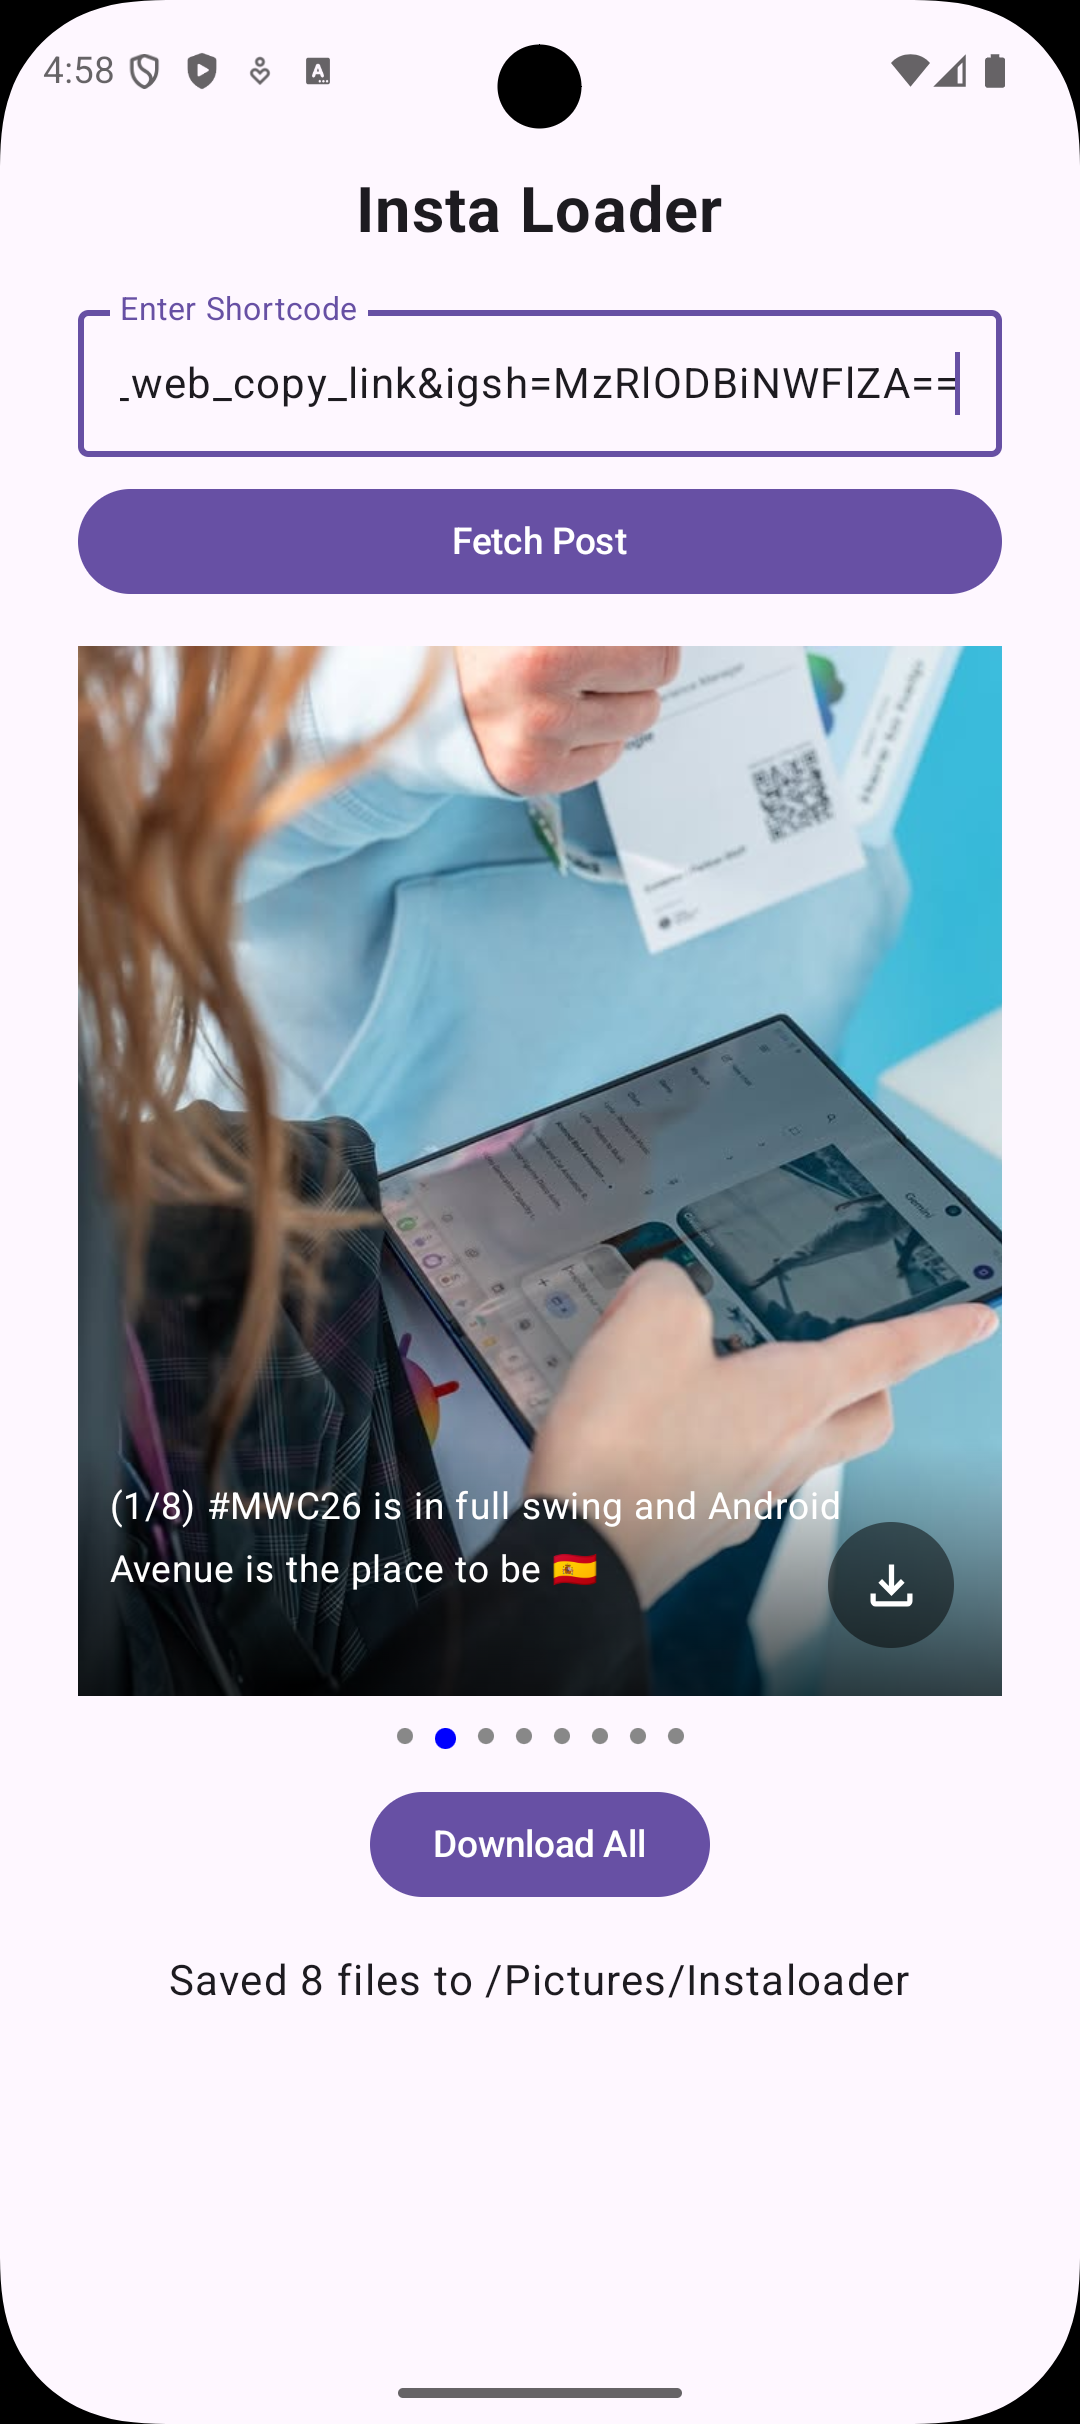
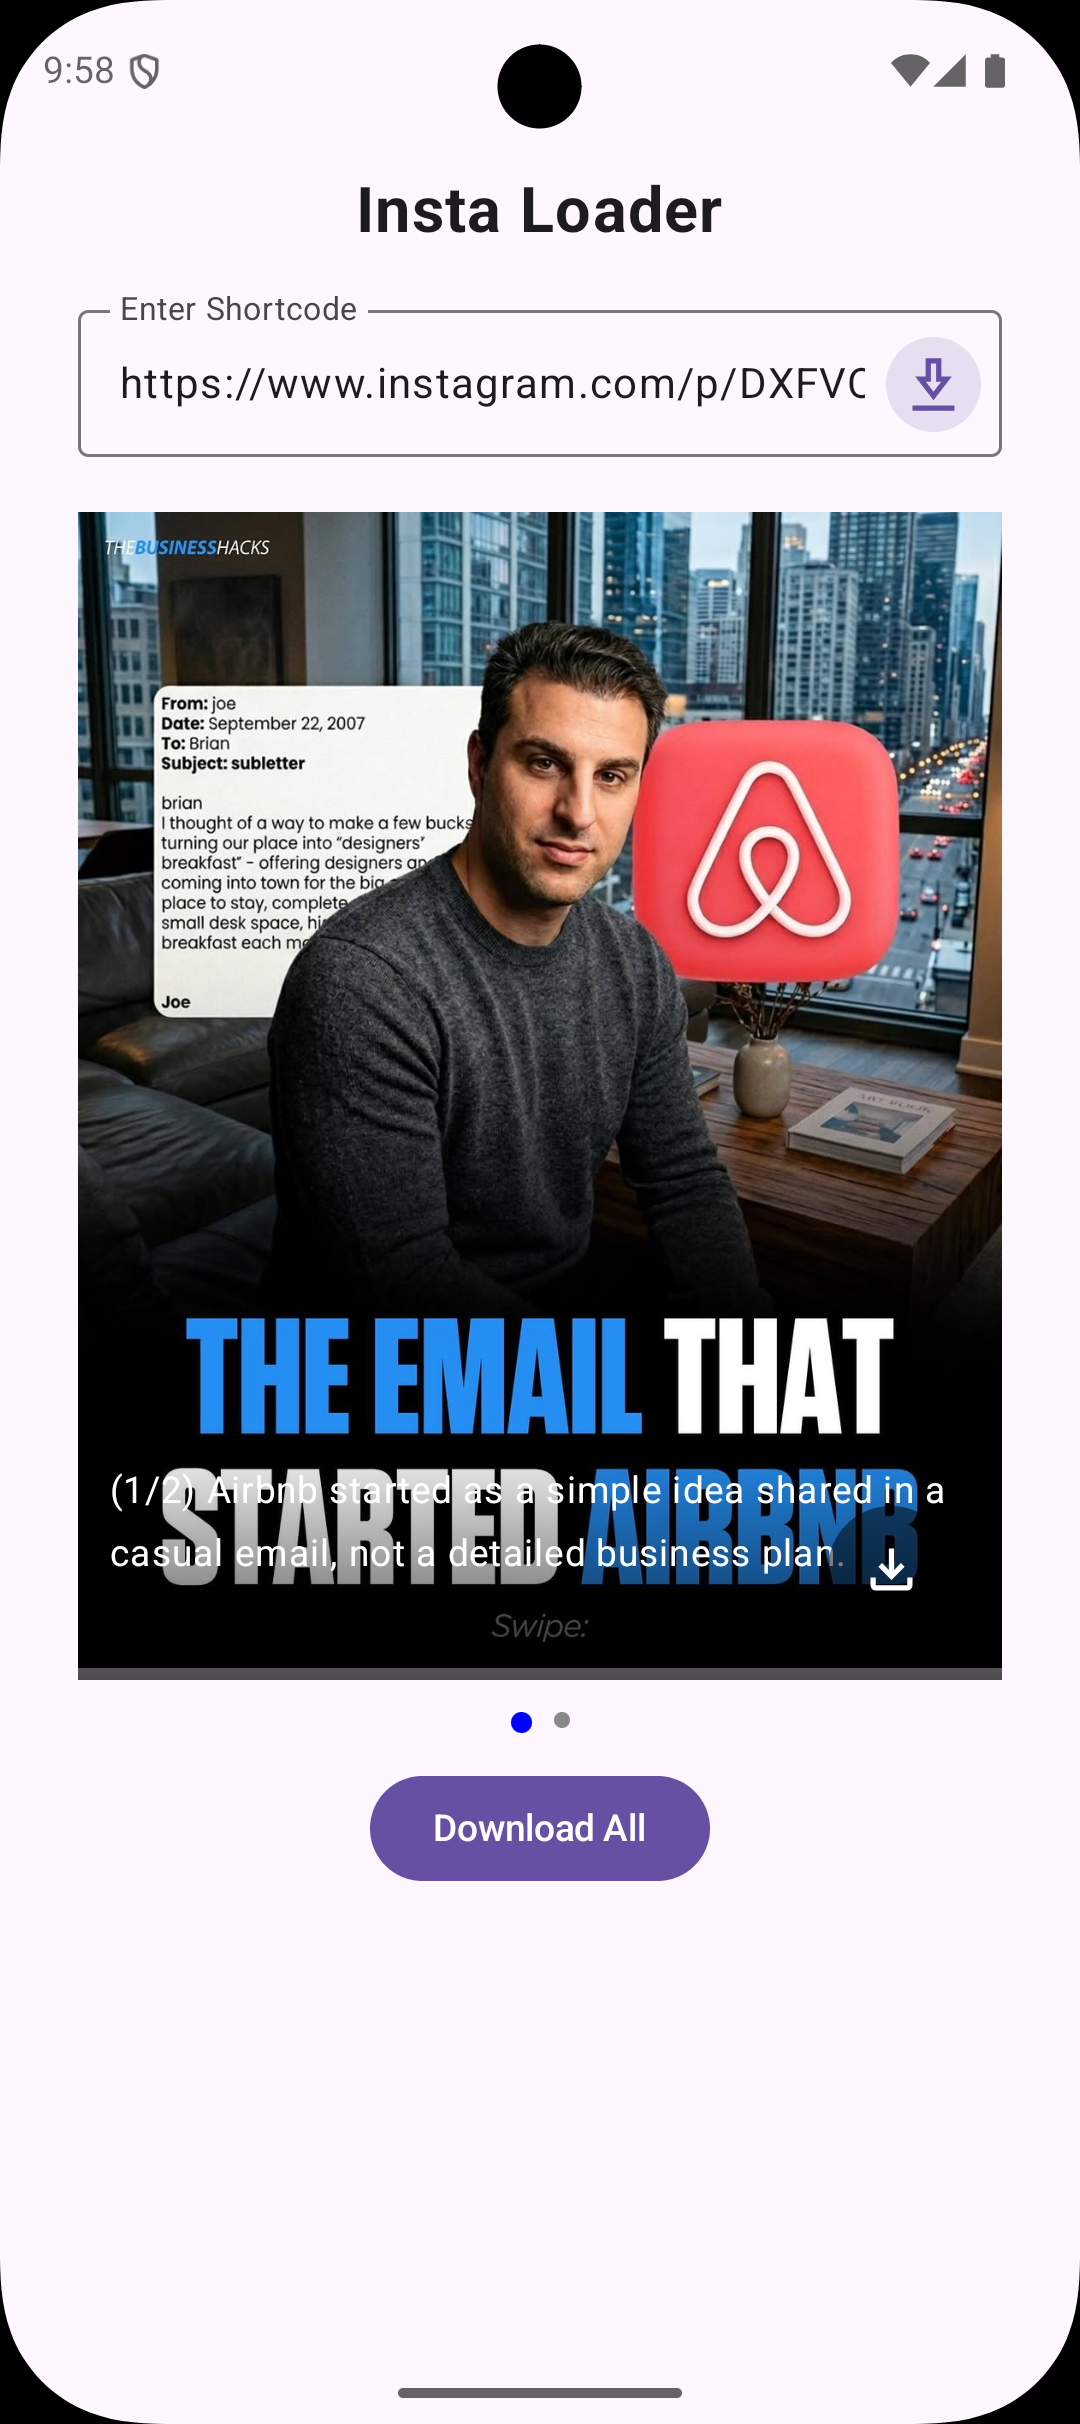
Task: UI enhancement
"Fetch Post" button removed and instead tailing icons is added in the OutlinedTextField, to save some space

diff --git a/composeApp/src/commonMain/kotlin/dev/livin/instaloader/App.kt b/composeApp/src/commonMain/kotlin/dev/livin/instaloader/App.kt
@@ -1,14 +1,23 @@
 package dev.livin.instaloader
 
+import androidx.compose.foundation.background
+import androidx.compose.foundation.clickable
+import androidx.compose.foundation.layout.Box
 import androidx.compose.foundation.layout.Column
+import androidx.compose.foundation.layout.Row
 import androidx.compose.foundation.layout.Spacer
 import androidx.compose.foundation.layout.fillMaxSize
 import androidx.compose.foundation.layout.fillMaxWidth
 import androidx.compose.foundation.layout.height
 import androidx.compose.foundation.layout.padding
 import androidx.compose.foundation.layout.safeContentPadding
+import androidx.compose.foundation.layout.size
+import androidx.compose.foundation.layout.width
+import androidx.compose.foundation.shape.CircleShape
 import androidx.compose.material3.Button
 import androidx.compose.material3.CircularProgressIndicator
+import androidx.compose.material3.Icon
+import androidx.compose.material3.IconButton
 import androidx.compose.material3.MaterialTheme
 import androidx.compose.material3.OutlinedTextField
 import androidx.compose.material3.Surface
@@ -21,6 +30,8 @@ import androidx.compose.runtime.remember
 import androidx.compose.runtime.setValue
 import androidx.compose.ui.Alignment
 import androidx.compose.ui.Modifier
+import androidx.compose.ui.draw.clip
+import androidx.compose.ui.graphics.Color
 import androidx.compose.ui.text.font.FontWeight
 import androidx.compose.ui.tooling.preview.Preview
 import androidx.compose.ui.unit.dp
@@ -33,6 +44,10 @@ import dev.livin.instaloader.utils.saveImageToFile
 import dev.livin.instaloader.viewmodel.InstaUiState
 import dev.livin.instaloader.viewmodel.InstaViewModel
 import dev.livin.instaloader.viewmodel.formatSize
+import kmpinstaloader.composeapp.generated.resources.Res
+import kmpinstaloader.composeapp.generated.resources.download
+import kmpinstaloader.composeapp.generated.resources.download_2
+import org.jetbrains.compose.resources.painterResource
 
 @Composable
 @Preview
@@ -93,22 +108,34 @@ fun InstaLoaderScreen(
             modifier = Modifier.padding(bottom = 16.dp)
         )
 
+
         OutlinedTextField(
             value = shortcode,
             onValueChange = { shortcode = it },
             label = { Text("Enter Shortcode") },
             modifier = Modifier.fillMaxWidth(),
-            singleLine = true
+            singleLine = true,
+            trailingIcon = {
+                Box(
+                    modifier = Modifier
+                        .padding(end = 4.dp)
+                        .size(36.dp)
+                        .clip(CircleShape)
+                        .background(MaterialTheme.colorScheme.primary.copy(alpha = 0.15f))
+                        .clickable {
+                            viewModel.fetchPost(shortcode)
+                        },
+                    contentAlignment = Alignment.Center
+                ) {
+                    Icon(
+                        painter = painterResource(Res.drawable.download_2),
+                        contentDescription = "Fetch",
+                        tint = MaterialTheme.colorScheme.primary
+                    )
+                }
+            }
         )
 
-        Spacer(modifier = Modifier.height(8.dp))
-
-        Button(
-            onClick = { viewModel.fetchPost(shortcode) },
-            modifier = Modifier.fillMaxWidth()
-        ) {
-            Text("Fetch Post")
-        }
 
         Spacer(modifier = Modifier.height(16.dp))
 
@@ -226,7 +253,7 @@ fun saveImagesToFiles(files: List<ByteArray?>): List<String> {
 
     files.forEachIndexed { index, bytes ->
         if (bytes != null) {
-            val fileName = "${baseName}_${index+1}"
+            val fileName = "${baseName}_${index + 1}"
             val path = saveImageToFile(bytes, fileName)
             savedPaths.add(path)
         }
